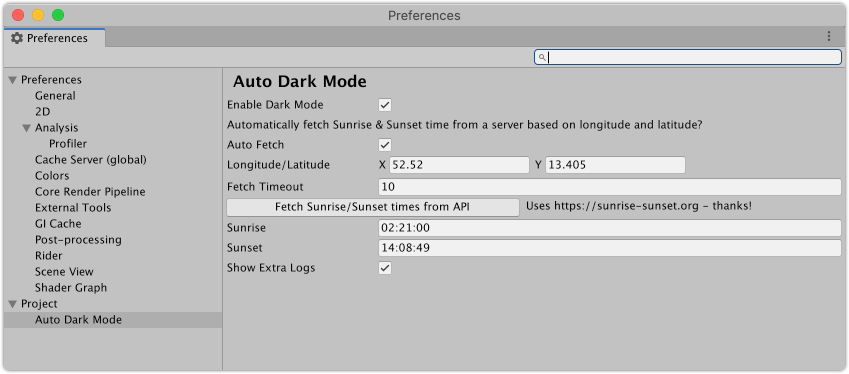
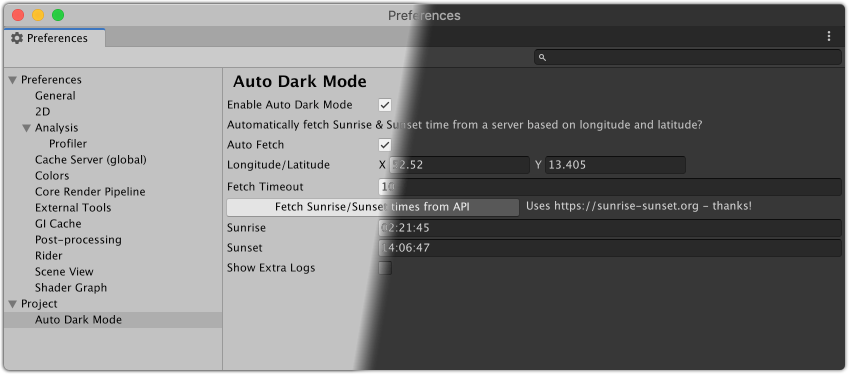
Updates readme.

diff --git a/README.md b/README.md
@@ -1,0 +1,45 @@
+![AutoDarkMode](ADM_Preferences_Screenshot.png)
+
+##Requirements
+* Unity version 2020.1 or newer
+* `Api Compatibility Level` needs to be `.NET 4.x` or `.NET Core 2.0`
+
+##Features
+
+* Automatically toggles between the light and dark editor themes based on your current local time using
+    * ... either a custom sunrise and sunset time you entered
+    * ... or a automatically fetched sunrise and sunset time based on the longitude & latitude you entered
+
+##Getting Started
+
+Head over to your Preferences window and go to `Project/Auto Dark Mode`, here you can configure the following options:
+
+* `Enable Auto Dark Mode`: If this is checked, the plugin will compare your _local time_* to the `Sunrise` and `Sunset` options (see below) and turn on the respective theme.
+* `Auto Fetch`: If checked, the plugin will try to fetch and auto fill the `Sunrise` and `Sunset` options (see below) using the [sunrise-sunset.org API](https://sunrise-sunset.org/api) once a day.
+    * `Longitude/Latitude` (only shown if `Auto Fetch` is enabled): Fill in the longitude and latitude of your location (e.g. 52.52 and 13.4050 for Berlin, Germany). Don't need to be super accurate.
+    * `Fetch Sunrise/Sunset times from API` (only shown if `Auto Fetch` is enabled): Force a fetch of the `Sunrise` and `Sunset` options (see below) now.
+* `Sunrise` and `Sunset`: The _times_* when sunrise and sunset occur/when Auto Dark Mode should switch the editor theme. If `Auto Fetch` is enabled, these fields should be populated for you automatically, otherwise you have to enter them manually*.
+* `Show Extra Logs`: Show some logs to know whats going on behind the scenes.
+
+_* All times are in UTC._
+
+##What will it add/do to my project?
+
+* Besides the actual plugin code it will create a config file (`Assets/AutoDarkModeSettings.asset`) to store the users settings when opening the settings for the first time. It is recommended to add this to your `.gitignore` as this plugin is supposed to be configurable on a per-user level so each user needs to have their own copy.
+* The plugin will hook into the [`InitializeOnLoadMethod`][1] flow and try to decide if a switch of the editor theme is required and do so if needed.
+
+##Known Issues
+* Editor Theme is not applied on a per-project level: This is something Unity has to change, unfortunately the Editor theme is a global setting and can't be changed on a per-project level.
+
+If you notice anything else that might be wrong, file an (issue)[https://github.com/shniqq/unity-auto-dark-mode/issues].
+
+##Improvement Ideas
+* A way to automatically detect the user's location (long/lat). A rough estimate should be just fine to get good-enough approximations for the sunrise & sunset times.
+* Automatically open Project Settings when plugin is added for the first time or provide a button in the welcome popup to go there.
+* Add option to invert the theme (light during the night, dark during the day). Not sure if this is something someone actually wants?
+* Provide sensible default values for `Sunset` and `Sunrise` so the plugin works out of the box.
+* [`InitializeOnLoadMethod`][1] mostly occurs when scripts change or the project launched, for non-programmers this might not happen often enough - maybe hook into Asset Database Reload somehow or something alike?
+
+**PRs are welcome!**
+
+[1]: https://docs.unity3d.com/ScriptReference/InitializeOnLoadMethodAttribute.html
